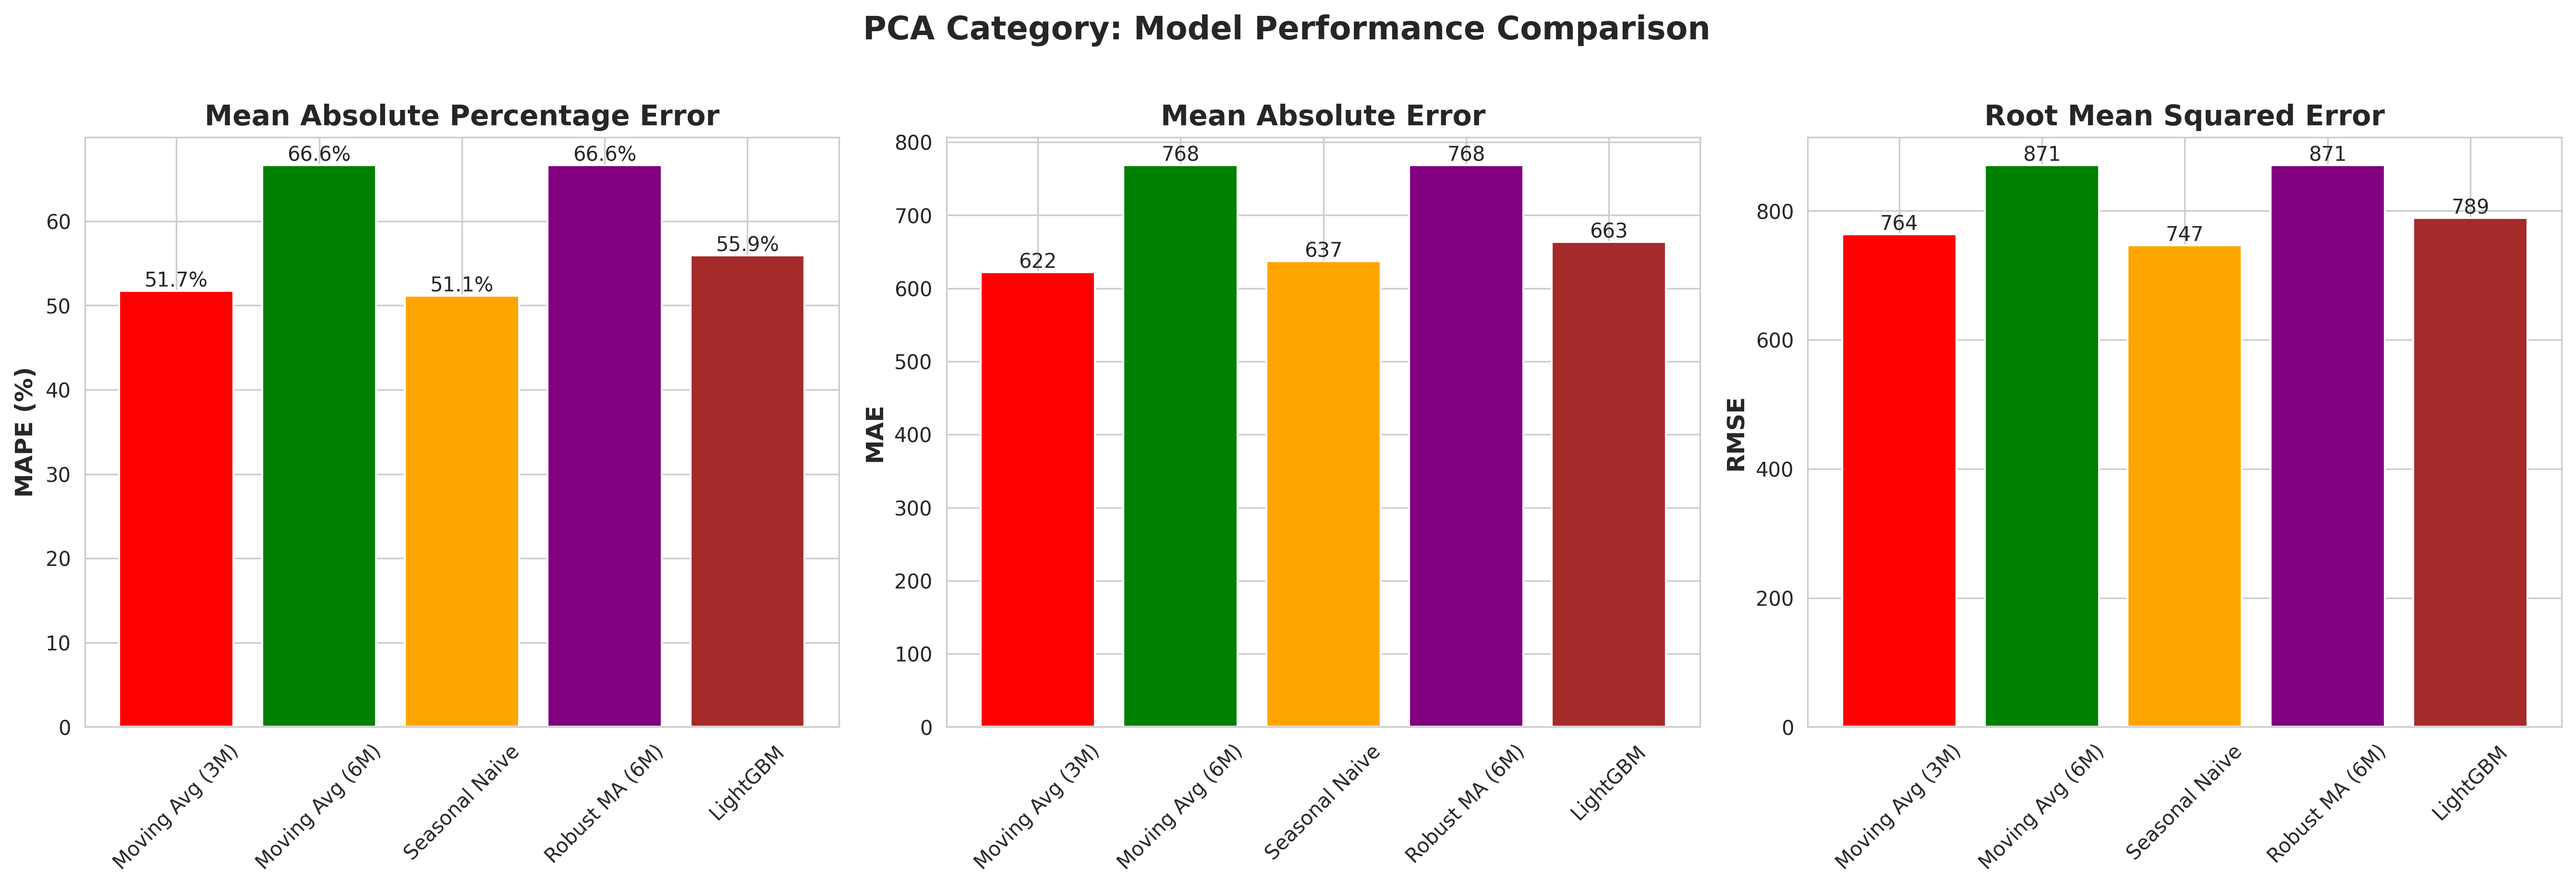
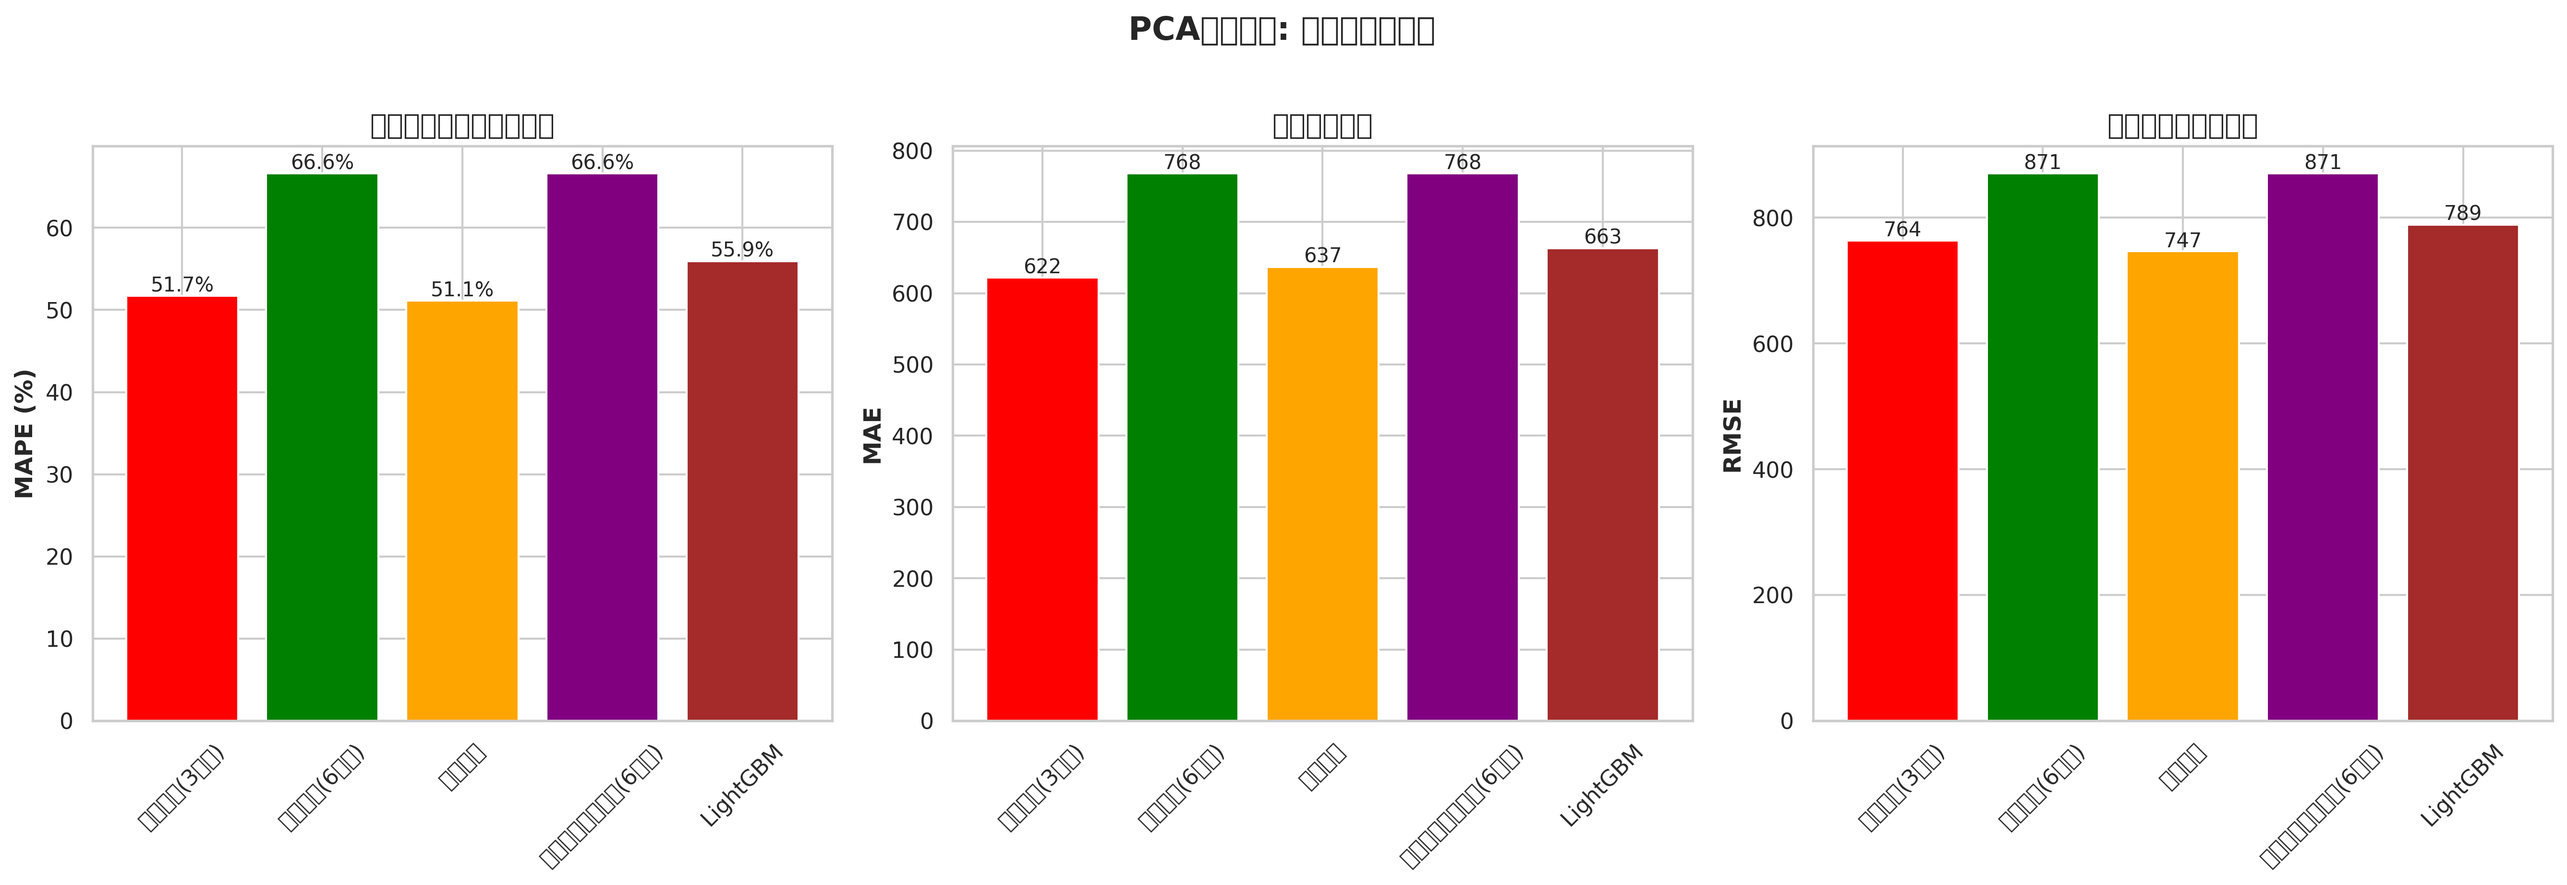
可視化グラフの日本語表示対応完了
- IPAexGothicフォントを使用して全グラフの日本語文字化けを修正
- グラフタイトル、軸ラベル、凡例を全て日本語化
- モデル名を日本語に変換（移動平均、前年同月、LightGBMなど）
- 12個の可視化グラフを再生成

修正内容:
- フォント設定追加: plt.rcParams['font.family'] = 'IPAexGothic'
- 時系列グラフ: 訓練データ、実績、予測値のラベル日本語化
- メトリクス比較グラフ: MAPE、MAE、RMSEの説明日本語化
- サマリーグラフ: ヒートマップ、ベストモデル比較、ベースラインvs機械学習の日本語化

🤖 Generated with [Claude Code](https://claude.com/claude-code)

diff --git a/create_visualizations.py b/create_visualizations.py
@@ -18,13 +18,15 @@ from src.lightgbm_models import LightGBMForecaster
 import warnings
 warnings.filterwarnings('ignore')
 
-# 日本語フォント設定（代替）
-plt.rcParams['font.sans-serif'] = ['DejaVu Sans']
+# 日本語フォント設定
+plt.rcParams['font.family'] = 'IPAexGothic'
+plt.rcParams['font.sans-serif'] = ['IPAexGothic', 'Noto Sans CJK JP', 'DejaVu Sans']
 plt.rcParams['axes.unicode_minus'] = False
 
 # スタイル設定
 sns.set_style('whitegrid')
 sns.set_palette('husl')
+sns.set_context("notebook", font_scale=1.0)
 
 
 def plot_category_comparison(sheet_name: str, save_dir: Path):
@@ -78,29 +80,37 @@ def plot_category_comparison(sheet_name: str, save_dir: Path):
 
     # 訓練期間の実績
     ax.plot(train_monthly['ds'], train_monthly['y'],
-            'o-', linewidth=2, markersize=4, label='Training Data', color='blue', alpha=0.7)
+            'o-', linewidth=2, markersize=4, label='訓練データ', color='blue', alpha=0.7)
 
     # テスト期間の実績
     ax.plot(test_monthly['ds'], test_monthly['y'],
-            'o-', linewidth=3, markersize=6, label='Actual (Test)', color='black', zorder=10)
+            'o-', linewidth=3, markersize=6, label='実績（テスト期間）', color='black', zorder=10)
 
     # 各モデルの予測
     colors = ['red', 'green', 'orange', 'purple', 'brown']
+    model_name_jp = {
+        'Moving Avg (3M)': '移動平均(3か月)',
+        'Moving Avg (6M)': '移動平均(6か月)',
+        'Seasonal Naive': '前年同月',
+        'Robust MA (6M)': 'ロバスト移動平均(6か月)',
+        'LightGBM': 'LightGBM'
+    }
     for i, (model_name, pred_df) in enumerate(models_predictions.items()):
+        jp_name = model_name_jp.get(model_name, model_name)
         ax.plot(pred_df['ds'], pred_df['yhat'],
-                's--', linewidth=2, markersize=5, label=f'{model_name}',
+                's--', linewidth=2, markersize=5, label=jp_name,
                 color=colors[i % len(colors)], alpha=0.8)
 
     # 訓練/テスト境界線
     train_test_boundary = train_monthly['ds'].max()
     ax.axvline(x=train_test_boundary, color='red', linestyle=':', linewidth=2,
-               label='Train/Test Split', alpha=0.7)
+               label='訓練/テスト分割', alpha=0.7)
 
-    ax.set_xlabel('Date', fontsize=14, fontweight='bold')
-    ax.set_ylabel('Sales Volume', fontsize=14, fontweight='bold')
-    ax.set_title(f'{sheet_name} Category: Predictions vs Actual Data',
+    ax.set_xlabel('日付', fontsize=14, fontweight='bold')
+    ax.set_ylabel('販売台数', fontsize=14, fontweight='bold')
+    ax.set_title(f'{sheet_name}カテゴリ: 予測 vs 実績',
                  fontsize=16, fontweight='bold', pad=20)
-    ax.legend(loc='best', fontsize=11, framealpha=0.9)
+    ax.legend(loc='best', fontsize=11, framealpha=0.9, prop={'family': 'IPAexGothic'})
     ax.grid(True, alpha=0.3)
     plt.xticks(rotation=45)
     plt.tight_layout()
@@ -118,19 +128,20 @@ def plot_category_comparison(sheet_name: str, save_dir: Path):
 
     # 実績
     ax.plot(test_monthly['ds'], test_monthly['y'],
-            'o-', linewidth=3, markersize=8, label='Actual', color='black', zorder=10)
+            'o-', linewidth=3, markersize=8, label='実績', color='black', zorder=10)
 
     # 各モデルの予測
     for i, (model_name, pred_df) in enumerate(models_predictions.items()):
+        jp_name = model_name_jp.get(model_name, model_name)
         ax.plot(pred_df['ds'], pred_df['yhat'],
-                's--', linewidth=2, markersize=6, label=f'{model_name}',
+                's--', linewidth=2, markersize=6, label=jp_name,
                 color=colors[i % len(colors)], alpha=0.8)
 
-    ax.set_xlabel('Date', fontsize=14, fontweight='bold')
-    ax.set_ylabel('Sales Volume', fontsize=14, fontweight='bold')
-    ax.set_title(f'{sheet_name} Category: Test Period Detail (2024-06 to 2025-05)',
+    ax.set_xlabel('日付', fontsize=14, fontweight='bold')
+    ax.set_ylabel('販売台数', fontsize=14, fontweight='bold')
+    ax.set_title(f'{sheet_name}カテゴリ: テスト期間詳細 (2024-06 ～ 2025-05)',
                  fontsize=16, fontweight='bold', pad=20)
-    ax.legend(loc='best', fontsize=11, framealpha=0.9)
+    ax.legend(loc='best', fontsize=11, framealpha=0.9, prop={'family': 'IPAexGothic'})
     ax.grid(True, alpha=0.3)
     plt.xticks(rotation=45)
     plt.tight_layout()
@@ -174,14 +185,17 @@ def plot_category_comparison(sheet_name: str, save_dir: Path):
 
     metrics_df = pd.DataFrame(metrics_data)
 
+    # モデル名を日本語に変換
+    metrics_df['Model_JP'] = metrics_df['Model'].map(model_name_jp)
+
     # 3つのメトリクスを横並びで表示
     fig, axes = plt.subplots(1, 3, figsize=(18, 6))
 
     # MAPE
     ax = axes[0]
-    bars = ax.bar(metrics_df['Model'], metrics_df['MAPE'], color=colors[:len(metrics_df)])
+    bars = ax.bar(metrics_df['Model_JP'], metrics_df['MAPE'], color=colors[:len(metrics_df)])
     ax.set_ylabel('MAPE (%)', fontsize=12, fontweight='bold')
-    ax.set_title('Mean Absolute Percentage Error', fontsize=14, fontweight='bold')
+    ax.set_title('平均絶対パーセント誤差', fontsize=14, fontweight='bold')
     ax.tick_params(axis='x', rotation=45)
     # 値をバーの上に表示
     for bar in bars:
@@ -191,9 +205,9 @@ def plot_category_comparison(sheet_name: str, save_dir: Path):
 
     # MAE
     ax = axes[1]
-    bars = ax.bar(metrics_df['Model'], metrics_df['MAE'], color=colors[:len(metrics_df)])
+    bars = ax.bar(metrics_df['Model_JP'], metrics_df['MAE'], color=colors[:len(metrics_df)])
     ax.set_ylabel('MAE', fontsize=12, fontweight='bold')
-    ax.set_title('Mean Absolute Error', fontsize=14, fontweight='bold')
+    ax.set_title('平均絶対誤差', fontsize=14, fontweight='bold')
     ax.tick_params(axis='x', rotation=45)
     for bar in bars:
         height = bar.get_height()
@@ -202,16 +216,16 @@ def plot_category_comparison(sheet_name: str, save_dir: Path):
 
     # RMSE
     ax = axes[2]
-    bars = ax.bar(metrics_df['Model'], metrics_df['RMSE'], color=colors[:len(metrics_df)])
+    bars = ax.bar(metrics_df['Model_JP'], metrics_df['RMSE'], color=colors[:len(metrics_df)])
     ax.set_ylabel('RMSE', fontsize=12, fontweight='bold')
-    ax.set_title('Root Mean Squared Error', fontsize=14, fontweight='bold')
+    ax.set_title('二乗平均平方根誤差', fontsize=14, fontweight='bold')
     ax.tick_params(axis='x', rotation=45)
     for bar in bars:
         height = bar.get_height()
         ax.text(bar.get_x() + bar.get_width()/2., height,
                 f'{height:.0f}', ha='center', va='bottom', fontsize=10)
 
-    plt.suptitle(f'{sheet_name} Category: Model Performance Comparison',
+    plt.suptitle(f'{sheet_name}カテゴリ: モデル性能比較',
                  fontsize=16, fontweight='bold', y=1.02)
     plt.tight_layout()
 
@@ -251,11 +265,14 @@ def plot_overall_summary(save_dir: Path):
 
     fig, ax = plt.subplots(figsize=(12, 8))
     sns.heatmap(pivot_data, annot=True, fmt='.1f', cmap='RdYlGn_r',
-                cbar_kws={'label': 'MAPE (%)'}, ax=ax, vmin=0, vmax=100)
-    ax.set_title('Model Performance Heatmap: MAPE by Category and Model',
+                cbar_kws={'label': 'MAPE (%)'}, ax=ax, vmin=0, vmax=100,
+                annot_kws={'fontsize': 11})
+    ax.set_title('モデル性能ヒートマップ: カテゴリ別・モデル別 MAPE',
                  fontsize=16, fontweight='bold', pad=20)
-    ax.set_xlabel('Category', fontsize=14, fontweight='bold')
-    ax.set_ylabel('Model', fontsize=14, fontweight='bold')
+    ax.set_xlabel('カテゴリ', fontsize=14, fontweight='bold')
+    ax.set_ylabel('モデル', fontsize=14, fontweight='bold')
+    # Y軸ラベルのフォント設定
+    ax.set_yticklabels(ax.get_yticklabels(), fontfamily='IPAexGothic')
     plt.tight_layout()
 
     save_path = save_dir / 'overall_heatmap.png'
@@ -278,11 +295,11 @@ def plot_overall_summary(save_dir: Path):
     bars = ax.bar(range(len(best_models)), best_models['MAPE'], color=bar_colors)
     ax.set_xticks(range(len(best_models)))
     ax.set_xticklabels([f"{row['カテゴリ']}\n({row['モデル名']})"
-                        for _, row in best_models.iterrows()], fontsize=11)
+                        for _, row in best_models.iterrows()], fontsize=11, fontfamily='IPAexGothic')
     ax.set_ylabel('MAPE (%)', fontsize=14, fontweight='bold')
-    ax.set_title('Best Model Performance by Category', fontsize=16, fontweight='bold', pad=20)
-    ax.axhline(y=20, color='green', linestyle='--', alpha=0.5, label='Excellent (<20%)')
-    ax.axhline(y=40, color='orange', linestyle='--', alpha=0.5, label='Acceptable (<40%)')
+    ax.set_title('カテゴリ別ベストモデル性能', fontsize=16, fontweight='bold', pad=20)
+    ax.axhline(y=20, color='green', linestyle='--', alpha=0.5, label='優秀 (<20%)')
+    ax.axhline(y=40, color='orange', linestyle='--', alpha=0.5, label='許容範囲 (<40%)')
     ax.grid(True, axis='y', alpha=0.3)
 
     # 値をバーの上に表示
@@ -311,20 +328,25 @@ def plot_overall_summary(save_dir: Path):
         baseline_mape = cat_data[cat_data['モデル種別'] == 'ベースライン']['MAPE'].mean()
         ml_mape = cat_data[cat_data['モデル種別'] == '機械学習']['MAPE'].mean()
 
-        bars = ax.bar(['Baseline', 'Machine Learning'], [baseline_mape, ml_mape],
+        bars = ax.bar(['ベースライン', '機械学習'], [baseline_mape, ml_mape],
                      color=['skyblue', 'salmon'])
-        ax.set_ylabel('Average MAPE (%)', fontsize=12, fontweight='bold')
-        ax.set_title(f'{category} Category', fontsize=14, fontweight='bold')
+        ax.set_ylabel('平均MAPE (%)', fontsize=12, fontweight='bold', fontfamily='IPAexGothic')
+        ax.set_title(f'{category}カテゴリ', fontsize=14, fontweight='bold', fontfamily='IPAexGothic')
         ax.set_ylim(0, max(baseline_mape, ml_mape) * 1.2)
+
+        # ティックラベルにフォント指定
+        ax.set_xticklabels(ax.get_xticklabels(), fontfamily='IPAexGothic')
+        ax.set_yticklabels(ax.get_yticklabels(), fontfamily='IPAexGothic')
 
         # 値をバーの上に表示
         for bar in bars:
             height = bar.get_height()
             ax.text(bar.get_x() + bar.get_width()/2., height,
-                    f'{height:.1f}%', ha='center', va='bottom', fontsize=11, fontweight='bold')
+                    f'{height:.1f}%', ha='center', va='bottom', fontsize=11, fontweight='bold',
+                    fontfamily='IPAexGothic')
 
-    plt.suptitle('Baseline vs Machine Learning: Average MAPE Comparison',
-                 fontsize=16, fontweight='bold', y=1.02)
+    plt.suptitle('ベースライン vs 機械学習：平均MAPE比較',
+                 fontsize=16, fontweight='bold', y=1.02, fontfamily='IPAexGothic')
     plt.tight_layout()
 
     save_path = save_dir / 'baseline_vs_ml.png'
